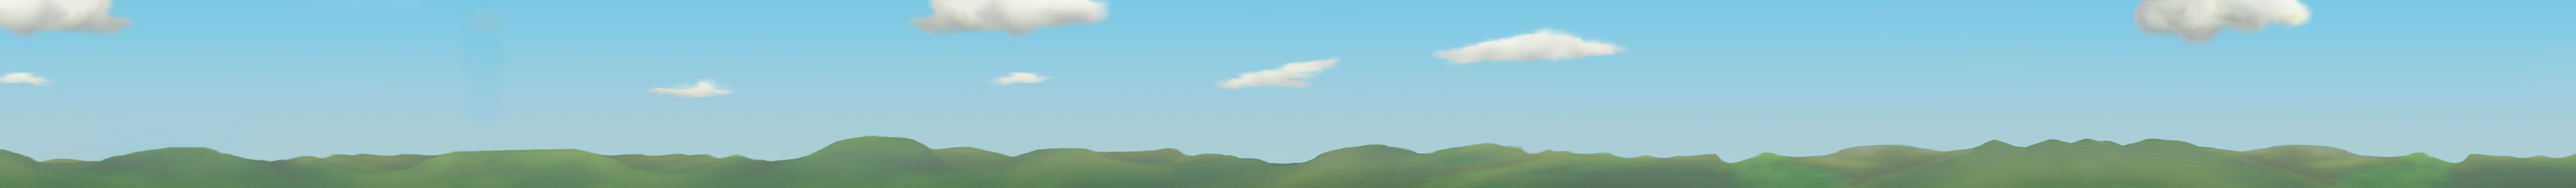
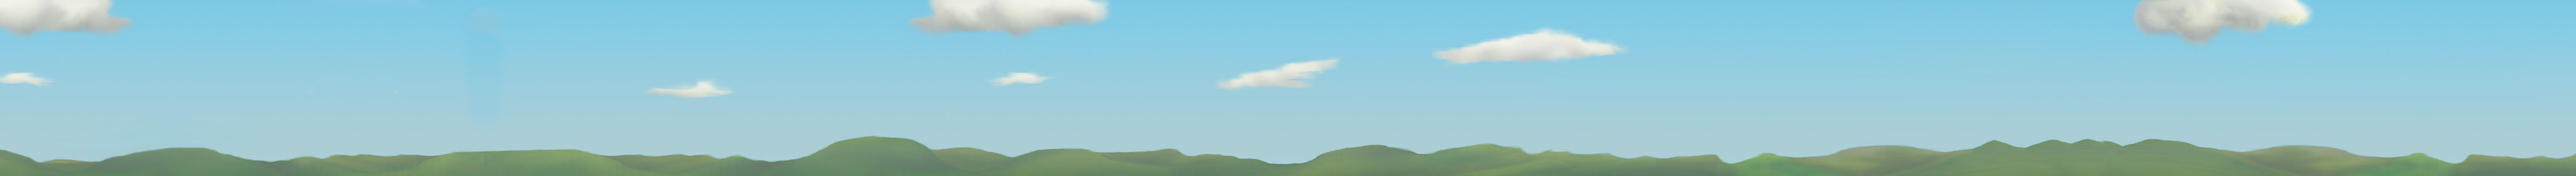
Add tank
adjust background height

diff --git a/main.js b/main.js
@@ -2,7 +2,7 @@ var windowSize = { x: 1152, y: 480 };
 var game = new Phaser.Game(windowSize.x, windowSize.y, Phaser.AUTO, '', { preload: preload, create: create, update: update });
 var bg;
 var player;
-var buildings;
+var units = [];
 var cursors;
 
 // Layout: statusbar, game window, build bars
@@ -20,6 +20,8 @@ function preload () {
   
   game.load.audio('bgaudio', ['audio/bg.ogg']);
   
+  game.load.image('tank', 'images/tank.png');
+  
   cursors = game.input.keyboard.createCursorKeys();
 }
 
@@ -31,18 +33,28 @@ function create () {
   
   groups = {
     buildings: game.add.group(),
-    floors: game.add.group(),
-    rooms: game.add.group(),
-    ledges: game.add.group(),
-    glasses: game.add.group(),
-    bullets: game.add.group()
+    units: game.add.group()
   };
  
   game.world.setBounds(0, 0, 20000, windowSize.y);
+  
+  // Add a bunch of tanks
+  for (var i = 300; i < game.world.bounds.width; i += 300) {
+    units.push(new Unit(game, 'tank', 2.0, 5.0, '', 1.0, 100, {x:i, y:statusHeight + gameWindowHeight}));
+  }
 }
 
-var cameraSpeed = 100;
+var cameraSpeed = 40;
 function update() {
+  
+  // Check for dead units
+  for (var i = 0; i < units.length; i++) {
+    if (units[i].sprite.health <= 0) {
+      // play death effects
+      units.splice(i, 1);
+      i--;
+    }
+  }
   
   // Move camera
   if (cursors.right.isDown) {

diff --git a/index.html b/index.html
@@ -4,7 +4,7 @@
         <meta charset="UTF-8" />
         <title>Blue Alert</title>
         <script src="phaser.min.js"></script>
-        <script src="camera.js"></script>
+        <script src="unit.js"></script>
         <script src="main.js"></script>
     </head>
     <body></body>

diff --git a/unit.js b/unit.js
@@ -1,0 +1,7 @@
+var Unit = function(game, spritename, speed, attackstr, attacksnd, attackspeed, health, pos) {
+  this.sprite = game.add.sprite(pos.x, pos.y, spritename);
+  this.sprite.anchor.x = 0.5;
+  this.sprite.anchor.y = 1;
+
+  this.sprite.health = health;
+};
